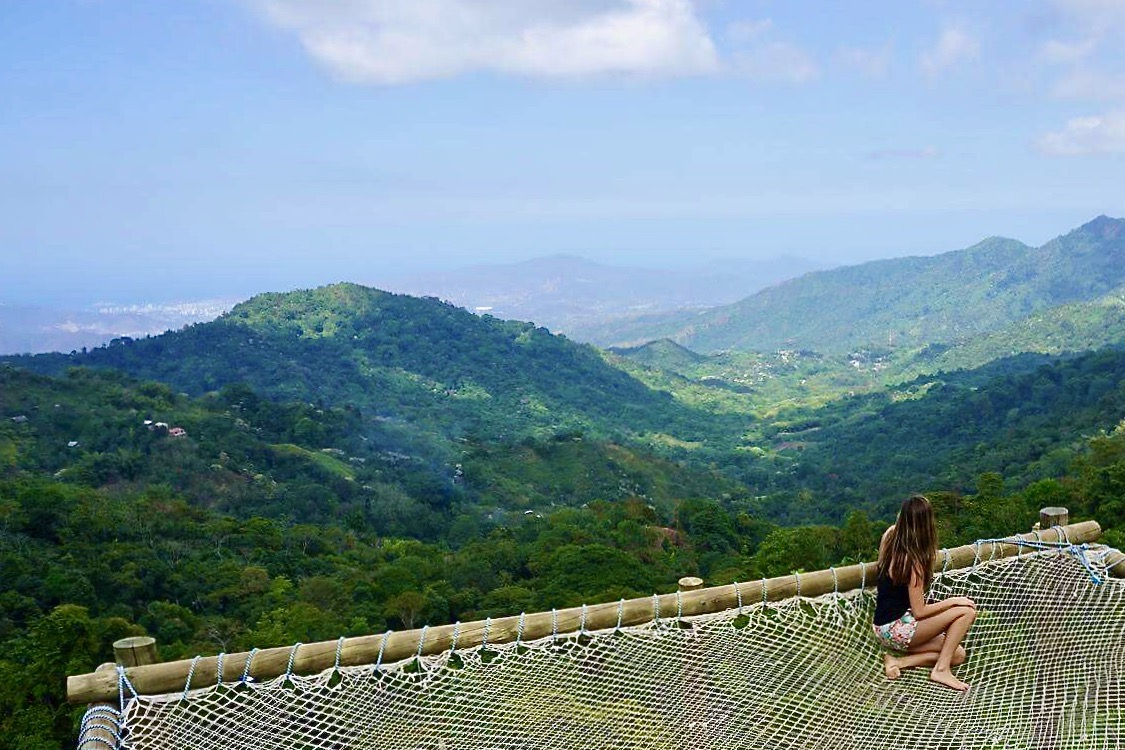
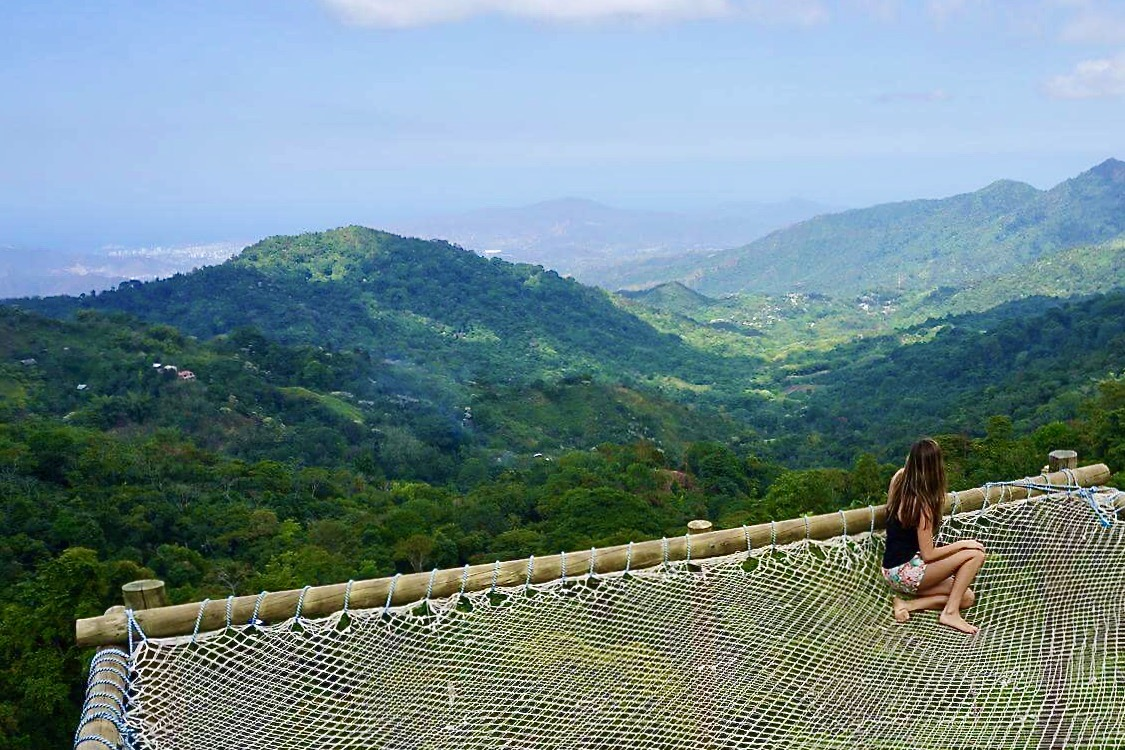
added form connection and final photos

diff --git a/index.html b/index.html
@@ -144,7 +144,9 @@
 						<!-- Contact -->
 							<article id="contact">
 								<h2 class="major">Contact</h2>
-								<form method="post" action="#">
+								<h4>Email: <a href="hustongretchen@gmail.com">hustongretchen@gmail.com</a></h4>
+								<h4>Phone: <a href="tel:530-219-7986">530-219-7986</a></h4>
+								<form method="post" action="https://formspree.io/f/xdoyprbn">
 									<div class="fields">
 										<div class="field half">
 											<label for="name">Name</label>
@@ -152,7 +154,7 @@
 										</div>
 										<div class="field half">
 											<label for="email">Email</label>
-											<input type="text" name="email" id="email" />
+											<input type="text" name="_replyto" id="email" />
 										</div>
 										<div class="field">
 											<label for="message">Message</label>
@@ -172,230 +174,6 @@
 												class="label">Instagram</span></a></li>
 								</ul>
 							</article>
-
-						<!-- Elements
-							<article id="elements">
-								<h2 class="major">Elements</h2>
-
-								<section>
-									<h3 class="major">Text</h3>
-									<p>This is <b>bold</b> and this is <strong>strong</strong>. This is <i>italic</i> and this is <em>emphasized</em>.
-									This is <sup>superscript</sup> text and this is <sub>subscript</sub> text.
-									This is <u>underlined</u> and this is code: <code>for (;;) { ... }</code>. Finally, <a href="#">this is a link</a>.</p>
-									<hr />
-									<h2>Heading Level 2</h2>
-									<h3>Heading Level 3</h3>
-									<h4>Heading Level 4</h4>
-									<h5>Heading Level 5</h5>
-									<h6>Heading Level 6</h6>
-									<hr />
-									<h4>Blockquote</h4>
-									<blockquote>Fringilla nisl. Donec accumsan interdum nisi, quis tincidunt felis sagittis eget tempus euismod. Vestibulum ante ipsum primis in faucibus vestibulum. Blandit adipiscing eu felis iaculis volutpat ac adipiscing accumsan faucibus. Vestibulum ante ipsum primis in faucibus lorem ipsum dolor sit amet nullam adipiscing eu felis.</blockquote>
-									<h4>Preformatted</h4>
-									<pre><code>i = 0;
-
-while (!deck.isInOrder()) {
-    print 'Iteration ' + i;
-    deck.shuffle();
-    i++;
-}
-
-print 'It took ' + i + ' iterations to sort the deck.';</code></pre>
-								</section>
-
-								<section>
-									<h3 class="major">Lists</h3>
-
-									<h4>Unordered</h4>
-									<ul>
-										<li>Dolor pulvinar etiam.</li>
-										<li>Sagittis adipiscing.</li>
-										<li>Felis enim feugiat.</li>
-									</ul>
-
-									<h4>Alternate</h4>
-									<ul class="alt">
-										<li>Dolor pulvinar etiam.</li>
-										<li>Sagittis adipiscing.</li>
-										<li>Felis enim feugiat.</li>
-									</ul>
-
-									<h4>Ordered</h4>
-									<ol>
-										<li>Dolor pulvinar etiam.</li>
-										<li>Etiam vel felis viverra.</li>
-										<li>Felis enim feugiat.</li>
-										<li>Dolor pulvinar etiam.</li>
-										<li>Etiam vel felis lorem.</li>
-										<li>Felis enim et feugiat.</li>
-									</ol>
-									<h4>Icons</h4>
-									<ul class="icons">
-										<li><a href="#" class="icon brands fa-twitter"><span class="label">Twitter</span></a></li>
-										<li><a href="#" class="icon brands fa-facebook-f"><span class="label">Facebook</span></a></li>
-										<li><a href="#" class="icon brands fa-instagram"><span class="label">Instagram</span></a></li>
-										<li><a href="#" class="icon brands fa-github"><span class="label">Github</span></a></li>
-									</ul>
-
-									<h4>Actions</h4>
-									<ul class="actions">
-										<li><a href="#" class="button primary">Default</a></li>
-										<li><a href="#" class="button">Default</a></li>
-									</ul>
-									<ul class="actions stacked">
-										<li><a href="#" class="button primary">Default</a></li>
-										<li><a href="#" class="button">Default</a></li>
-									</ul>
-								</section>
-
-								<section>
-									<h3 class="major">Table</h3>
-									<h4>Default</h4>
-									<div class="table-wrapper">
-										<table>
-											<thead>
-												<tr>
-													<th>Name</th>
-													<th>Description</th>
-													<th>Price</th>
-												</tr>
-											</thead>
-											<tbody>
-												<tr>
-													<td>Item One</td>
-													<td>Ante turpis integer aliquet porttitor.</td>
-													<td>29.99</td>
-												</tr>
-												<tr>
-													<td>Item Two</td>
-													<td>Vis ac commodo adipiscing arcu aliquet.</td>
-													<td>19.99</td>
-												</tr>
-												<tr>
-													<td>Item Three</td>
-													<td> Morbi faucibus arcu accumsan lorem.</td>
-													<td>29.99</td>
-												</tr>
-												<tr>
-													<td>Item Four</td>
-													<td>Vitae integer tempus condimentum.</td>
-													<td>19.99</td>
-												</tr>
-												<tr>
-													<td>Item Five</td>
-													<td>Ante turpis integer aliquet porttitor.</td>
-													<td>29.99</td>
-												</tr>
-											</tbody>
-											<tfoot>
-												<tr>
-													<td colspan="2"></td>
-													<td>100.00</td>
-												</tr>
-											</tfoot>
-										</table>
-									</div>
-								</section>									
-
-									<h4>Alternate</h4>
-									<div class="table-wrapper">
-										<table class="alt">
-											<thead>
-												<tr>
-													<th>Name</th>
-													<th>Description</th>
-													<th>Price</th>
-												</tr>
-											</thead>
-											<tbody>
-												<tr>
-													<td>Item One</td>
-													<td>Ante turpis integer aliquet porttitor.</td>
-													<td>29.99</td>
-												</tr>
-												<tr>
-													<td>Item Two</td>
-													<td>Vis ac commodo adipiscing arcu aliquet.</td>
-													<td>19.99</td>
-												</tr>
-												<tr>
-													<td>Item Three</td>
-													<td> Morbi faucibus arcu accumsan lorem.</td>
-													<td>29.99</td>
-												</tr>
-												<tr>
-													<td>Item Four</td>
-													<td>Vitae integer tempus condimentum.</td>
-													<td>19.99</td>
-												</tr>
-												<tr>
-													<td>Item Five</td>
-													<td>Ante turpis integer aliquet porttitor.</td>
-													<td>29.99</td>
-												</tr>
-											</tbody>
-											<tfoot>
-												<tr>
-													<td colspan="2"></td>
-													<td>100.00</td>
-												</tr>
-											</tfoot>
-										</table>
-									</div>
-								</section>
-
-								<section>
-									<h3 class="major">Buttons</h3>
-									<ul class="actions">
-										<li><a href="#" class="button primary">Primary</a></li>
-										<li><a href="#" class="button">Default</a></li>
-									</ul>
-									<ul class="actions">
-										<li><a href="#" class="button">Default</a></li>
-										<li><a href="#" class="button small">Small</a></li>
-									</ul>
-									<ul class="actions">
-										<li><a href="#" class="button primary icon solid fa-download">Icon</a></li>
-										<li><a href="#" class="button icon solid fa-download">Icon</a></li>
-									</ul>
-									<ul class="actions">
-										<li><span class="button primary disabled">Disabled</span></li>
-										<li><span class="button disabled">Disabled</span></li>
-									</ul>
-								</section>
-
-								<section>
-									<h3 class="major">Form</h3>
-									<form method="post" action="https://formspree.io/f/{form_id}" method="post">
-										<div class="fields">
-											<div class="field half">
-												<label for="demo-name">Name</label>
-												<input type="text" name="demo-name" id="demo-name" value="" placeholder="Jane Doe" />
-											</div>
-											<div class="field half">
-												<label for="demo-email">Email</label>
-												<input type="email" name="demo-email" id="demo-email" value="" placeholder="jane@untitled.tld" />
-											</div>
-											<div class="field">
-												<label for="demo-message">Message</label>
-												<textarea name="demo-message" id="demo-message" placeholder="Enter your message" rows="6"></textarea>
-											</div>
-										</div>
-
-										<form action="https://formspree.io/f/{form_id}" method="post">
-											<label for="email">Your Email</label>
-											<input name="Email" id="email" type="email">
-											<button type="submit">Submit</button>
-										</form> -->
-										<!-- <ul class="actions">
-											<li><input type="submit" value="Send Message" class="primary" /></li>
-											<li><input type="reset" value="Reset" /></li>
-										</ul>
-									</form>
-								</section>
-
-							</article> --> 
-
 					</div>
 
 				<!-- Footer -->
